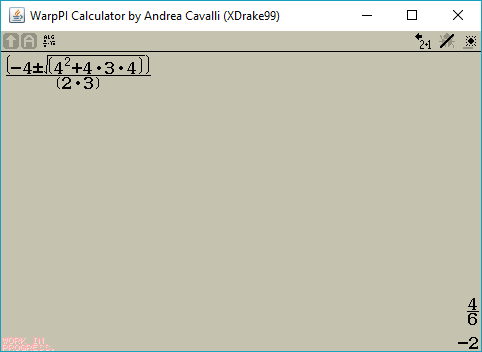
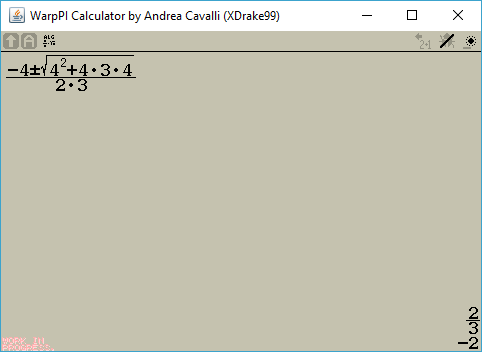
Fixed a bug with negative numbers and replaced the algebra screenshot

diff --git a/src/main/java/org/warp/picalculator/math/functions/Number.java b/src/main/java/org/warp/picalculator/math/functions/Number.java
@@ -202,11 +202,26 @@ public class Number implements Function {
 	public LinkedList<BigInteger> getFactors() {
 		BigInteger n = getTerm().toBigIntegerExact();
 		final BigInteger two = BigInteger.valueOf(2);
+		final BigInteger zero = BigInteger.ZERO;
 		final LinkedList<BigInteger> fs = new LinkedList<>();
 
-		if (n.compareTo(two) < 0) {
-			throw new IllegalArgumentException("must be greater than one");
+		final int comparedToZero = n.compareTo(zero);
+		final int comparedToTwo = n.compareTo(two);
+		if (comparedToZero == 0) {
+			return fs;
 		}
+		if (comparedToTwo < 0) {
+			if (comparedToZero > 0) {
+				return fs;
+			} else {
+				fs.add(BigInteger.valueOf(-1));
+				n = n.multiply(BigInteger.valueOf(-1));
+			}
+		}
+
+			if (n.compareTo(two) < 0) {
+				throw new IllegalArgumentException("must be greater than one");
+			}
 
 		while (n.mod(two).equals(BigInteger.ZERO)) {
 			fs.add(two);

diff --git a/src/main/java/org/warp/picalculator/math/parser/features/FeatureNumber.java b/src/main/java/org/warp/picalculator/math/parser/features/FeatureNumber.java
@@ -37,10 +37,12 @@ public class FeatureNumber implements FeatureBasic {
 			nmbstr = '0' + nmbstr;
 		} else if (nmbstr.charAt(nmbstr.length() - 1) == '.') {
 			nmbstr += "0";
-		} else if (nmbstr.charAt(0) == MathematicalSymbols.MINUS) {
-			nmbstr += "1";
-		} else if (nmbstr.charAt(0) == MathematicalSymbols.SUBTRACTION) {
-			nmbstr += "1";
+		} else if (nmbstr.length() == 1) {
+			if (nmbstr.charAt(0) == MathematicalSymbols.MINUS) {
+				nmbstr += "1";
+			} else if (nmbstr.charAt(0) == MathematicalSymbols.SUBTRACTION) {
+				nmbstr += "1";
+			}
 		}
 		return new Number(context, nmbstr);
 	}
